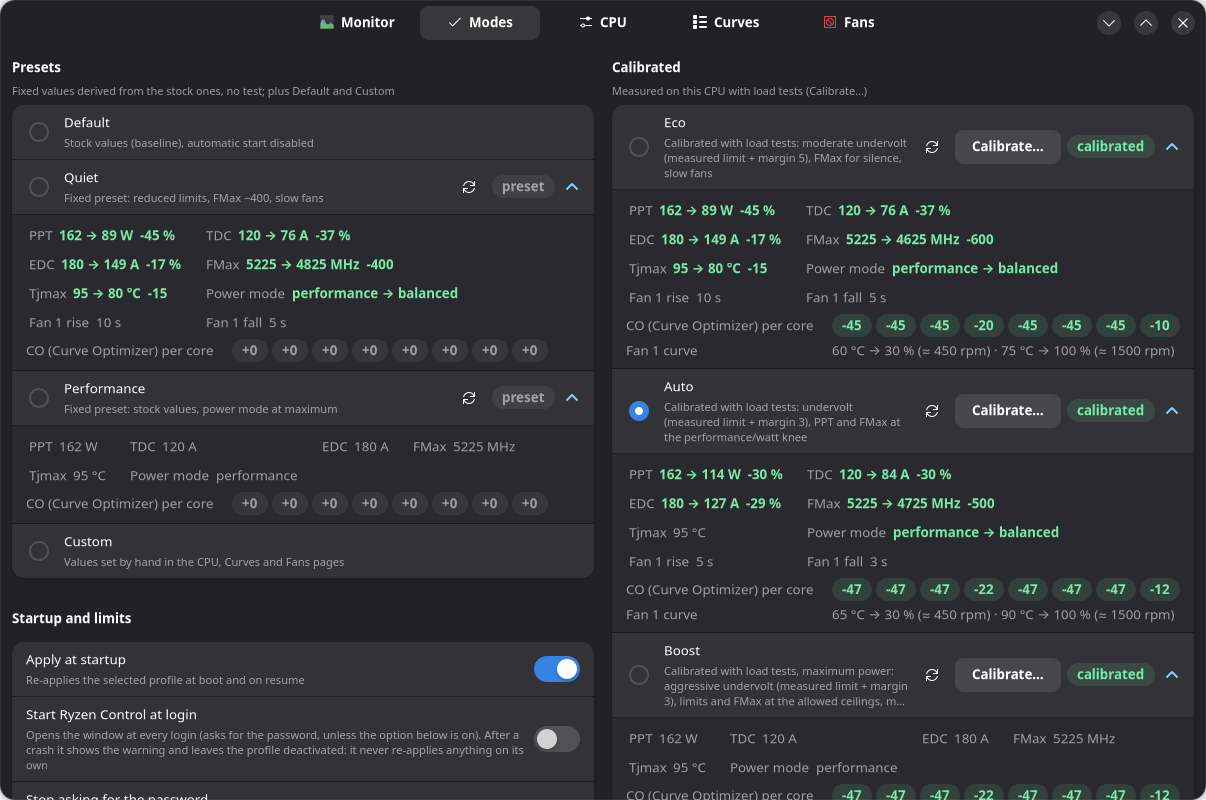
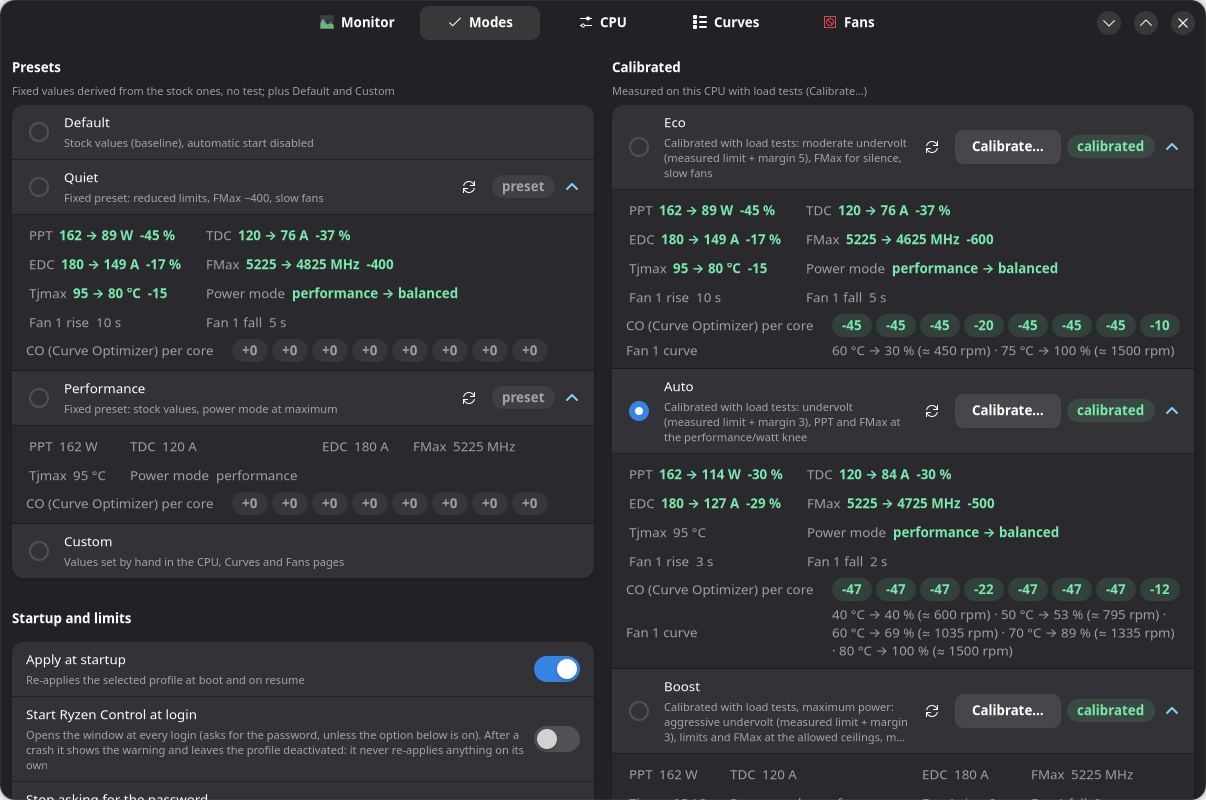
feat(ryzenctl): moderate fan level = BIOS curve +10 % with full speed at 100 °C, 3 s / 2 s; default for Auto and Boost
The BIOS curves reach 100 % only at 125 °C, so under load the fans hardly reacted (Auto kept the
BIOS curve). The moderate level now raises every BIOS point by 26 pwm (10 %) and moves full speed
to 100 °C, with 3 s / 2 s steps: on the 9800X3D this gives 20:30 % 30:36 % 40:44 % 50:55 % 100:100 %,
the curve tuned by hand by the user. Boost defaults to it too (BIOS fans were the weak spot under
load). Generated curves start from the baseline's BIOS curve, never from the chip's current one,
so a recalibration with the moderate curve applied does not raise it twice (selftest).

Changed region(s): [[0.5216, 0.75, 0.9818, 1.0], [0.7363, 0.9688, 0.9818, 1.0]]

diff --git a/README.md b/README.md
@@ -175,9 +175,11 @@ next start.
 
 From the GUI: Modes → "Calibrate…" on Eco, Auto or Boost, then "Automatic" (default values) or
 "Choose the values…"; at the end the buttons **Cancel / Save / Save and apply**. In both cases you choose how much the
-mode touches the fans (`fans`): 0 BIOS untouched (Boost default), 1 moderate (rise 5 s / fall 3 s,
-BIOS minimum up to `target` −5 °C; Auto default), 2 quiet (10 s / 5 s, minimum up to `target`
-−10 °C; Eco default); in every case 100 % at Tjmax −5 °C, only on the channels recognised as fans.
+mode touches the fans (`fans`), only on the channels recognised as fans: 0 BIOS untouched;
+1 moderate (Auto and Boost default): rise 3 s / fall 2 s and the BIOS curve raised by 10 % with
+full speed at 100 °C — the BIOS curves reach 100 % only at 125 °C, so under load the fans hardly
+react; 2 quiet (Eco default): 10 s / 5 s, BIOS minimum up to `target` −10 °C, 100 % at Tjmax −5 °C.
+The curve always starts from the BIOS one captured at boot, so a recalibration never raises it twice.
 By default the
 cores are tested **all together** at every CO level (one worker per core, ~8× faster;
 `parallel=0` = one core at a time, which attributes even a reboot with certainty). During the

diff --git a/CLAUDE.md b/CLAUDE.md
@@ -56,7 +56,10 @@ combinations stay in `co_limits.json` (`final_failures`) and are not retried; th
 attribution (`at_attribute_crash`, no SMU) already happens in `boot`; the heavy method is also
 the first phase of the search (`co_limits` files without `method` are not reused). The nct6775
 driver does not write back a 0 ms step (minimum register 1 = 400 ms): `FAN_STEP_MIN_MS`,
-otherwise `default` failed on the baseline's fan lines. A freeze followed by a reboot from the
+otherwise `default` failed on the baseline's fan lines. The BIOS fan curves reach 100 % only at
+125 °C: under load the fans hardly react, so the "moderate" level (Auto, Boost) is the BIOS curve
++10 % with full speed at 100 °C and 3 s / 2 s steps (tuned by the user); generated curves always
+start from the baseline's BIOS curve (`bios_curve`), never from the chip's current one. A freeze followed by a reboot from the
 button can wipe the files written in the last seconds (btrfs): even freshly created git objects.
 
 ## Layout
